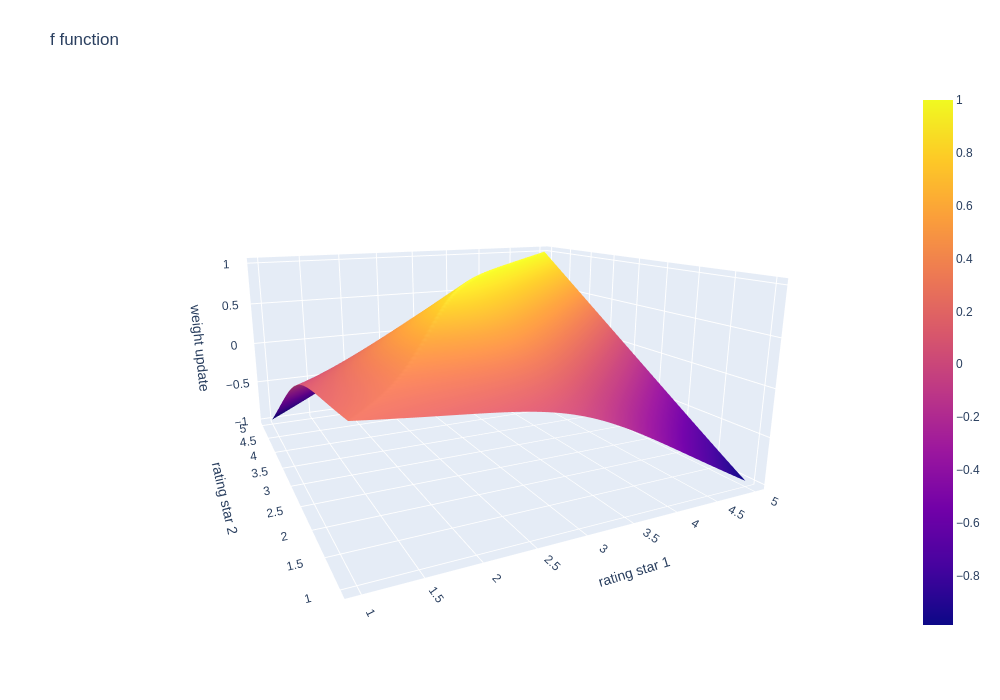
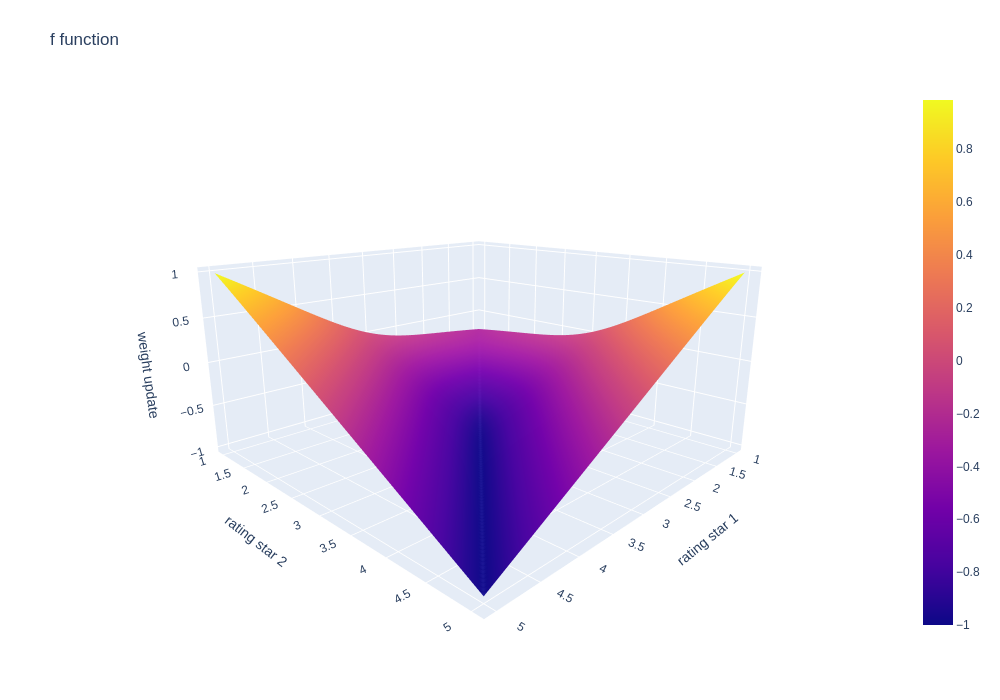
update readme

diff --git a/README.md b/README.md
@@ -4,7 +4,7 @@ Made by **WURPILLOT Nathan** and **COUBRET Erwan**
 
 ## Project Presentation
 
-This project was made for the C programming course at the [**Telecom Physique Strasbourg**](https://www.telecom-physique.fr/) engineering school. The goal was to create a movie recommendation algorithm based on a the [**Netflix Prize dataset**](https://academictorrents.com/details/9b13183dc4d60676b773c9e2cd6de5e5542cee9a).
+This project was made for the C programming course at the [**Telecom Physique Strasbourg**](https://www.telecom-physique.fr/) engineering school. The goal was to create a movie recommendation algorithm based on the [**Netflix Prize dataset**](https://academictorrents.com/details/9b13183dc4d60676b773c9e2cd6de5e5542cee9a).
 
 ---
 
@@ -26,7 +26,7 @@ This project was made for the C programming course at the [**Telecom Physique St
 
 ### 1 ─ Download dependencies and Install
 
-- If gcc is not installed on your computer, run these commands because the `makefile` will use gcc as compiler.
+- If GCC is not installed on your computer, run these commands, as the `makefile` requires GCC as the compiler.
 
 ```bash
 $ sudo apt update
@@ -55,7 +55,7 @@ Execute the following command to create the binary files created in order to sav
 $ ./main -o 
 ```
 
-The program will then ask you to precise the path of the training_set folder.
+The program will then ask you to specify the path of the training_set folder.
 
 This command will create :
 
@@ -116,7 +116,7 @@ By the way the order isn't important
 
 #### 💕 Movies Liked (Option -r)
 
-Provide a list of movies you like (separated by commas, or in a .txt file with a single movie each line) in order to get recommandation about these
+Provide a list of movies you like (separated by commas, or in a .txt file with a single movie each line) in order to get recommendation about these
 
 Usage : `-r <movieYouLikeid1,movieYouLikeid2,...> (or the path of a .txt)`
 
@@ -274,7 +274,7 @@ Then open `documentation/html/index.html` in your browser
 
 ### General Idea
 
-We used our knowledge about [Graph Theory](https://en.wikipedia.org/wiki/Graph_theory) to create the recommandation algorithm. This logic will allow us to create ties between every movies. The "strength" of ties will be based on weight associated to the edges to use Graph Theory vocabulary. Using user reviews, we modify this weight in order to make the movies more or less distant. With $k$ given movies, the algorithm will recommand the $n$ closest movies based on the weights between the $k$ movies to all other movies.
+We used our knowledge about [Graph Theory](https://en.wikipedia.org/wiki/Graph_theory) to create the recommendation algorithm. This logic will allow us to create ties between every movies. The "strength" of ties will be based on weight associated to the edges to use Graph Theory vocabulary. Using user reviews, we modify this weight in order to make the movies more or less distant. With $k$ given movies, the algorithm will recommand the $n$ closest movies based on the weights between the $k$ movies to all other movies.
 
 ### Dataset Presentation
 
@@ -336,17 +336,17 @@ Every weights are initiallized with $0$ as arbitrary value.
 
 Weights are updated based on user reviews. For each user, if he noted the same way two movies, we reduced the weight between the two movies. Otherwise, if the note is different we increased the weight between them.
 
-Nevertheless, between two good notes and two bad notes, even with a same way of noting, we wanted to increase the reduction for positive voting. We have the idea that two movie badly-noted are surely less close than two movie well-noted.
+Nevertheless, between two good notes and two bad notes, even with a same way of noting, we wanted to increase the reduction for positive voting. We have the idea that two movie badly-noted are less close than two movies well-noted.
 
 So we developped a two parameters function $f$ that will take this in consideration :
 
 $$
-f(x,y) = (1 - \frac{1}{2} | x - y | ) \times (0.75 * \frac{1}{1 - e^{-2(x + y - 4)}} + 0.25), (x,y) \in [1,5]²
+f(x,y) = -(1 - \frac{1}{2} | x - y | ) \times (0.75 * \frac{1}{1 - e^{-2(x + y - 4)}} + 0.25), (x,y) \in [1,5]²
 $$
 
-The $1 - \frac{1}{2} | x - y |$ term is based in order to be equal to $1$ when $x = y$ and to decrease the more $x$ and $y$ are different.
+The $1 - \frac{1}{2} | x - y |$ term is based in order to be equal to $-1$ when $x = y$ and to increase to $1$ the more $x$ and $y$ are different.
 
-And $0.75 * \frac{1}{1 - e^{-2(x + y - 4)}} + 0.25$ term is an adaptation of the [sigmoid function](https://en.wikipedia.org/wiki/Sigmoid_function) in oder to ponderate the weight evolution if $x$ and $y$ are low or not as we wanted.
+And $0.75 * \frac{1}{1 - e^{-2(x + y - 4)}} + 0.25$ term is an adaptation of the [sigmoid function](https://en.wikipedia.org/wiki/Sigmoid_function) in order to ponderate the weight evolution if $x$ and $y$ are low or not as we wanted.
 
 Visual representation of the $f$ function with python (and plotly lib) :
 
